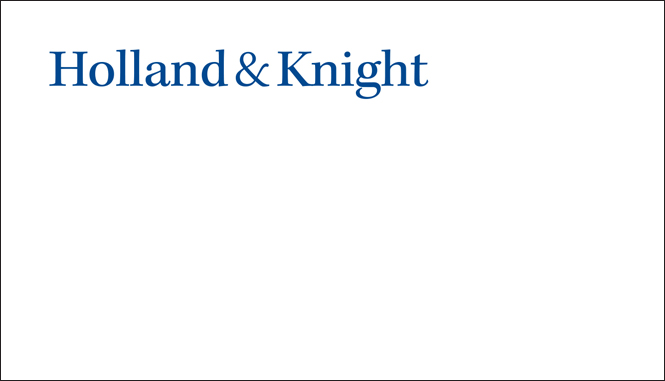
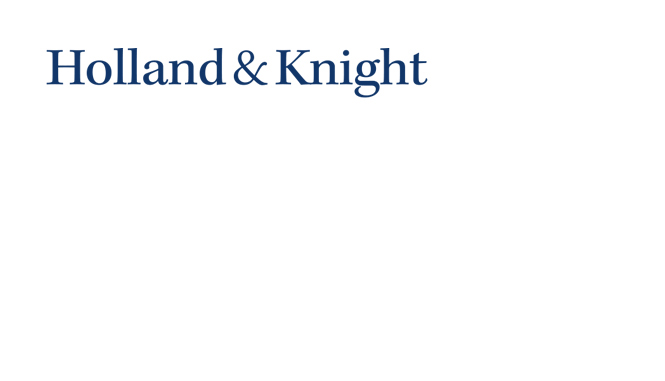
Update bc proof & cart

Changed region(s): [[0.0602, 0.1155, 0.6617, 0.2598], [0.0, 0.0, 1.0, 1.0], [0.0, 0.0, 0.0301, 0.0289]]

diff --git a/resources/views/layouts/bc-proof-layout.blade.php b/resources/views/layouts/bc-proof-layout.blade.php
@@ -1,13 +1,13 @@
 <div id="bc_name" name="bc_name" class="relative">
     <div
-        class="absolute top-[165px] left-[49.5px] -ml-2 tracking-[-.05em] text-left text-[1.7rem] text-red-500 font-helmd z-20">
+        class="absolute top-[165px] left-[49.5px] -ml-2 tracking-[-.05em] text-left text-[1.7rem] text-gray-800 font-helmd z-20">
         {{ $bc_name }}
     </div>
 </div>
 
 <div id="bc_title" name="bc_title" class="absolute">
     <div
-        class="relative top-[198px] left-[48.25px] -ml-1.5 bc-hellt tracking-[-.035em] text-left text-[1.15rem] text-red-500 z-20">
+        class="relative top-[198px] left-[48.25px] -ml-1.5 bc-hellt tracking-[-.035em] text-left text-[1.15rem] text-hkcolor z-20">
         {{ $bc_title == 'Staff Attorney (Title will be updated to "Attorney")' ? 'Attorney' : $bc_title }}
         {{-- Attorney --}}
     </div>
@@ -15,35 +15,42 @@
 
 <div class="absolute">
     <div
-        class="absolute top-[226.5px] -right-[526.5px] -mr-2 w-100 font-hellt tracking-[0.01em] text-right text-[1.1rem] text-red-500 z-20">
+        class="absolute top-[251.5px] -right-[526.5px] -mr-2 w-100 font-hellt tracking-[0.028em] text-right text-[1.1rem] text-hkcolor z-20">
+        {{ !$bc_address2 ? session('HKName') : ""}}
+    </div>
+</div>
+
+<div class="absolute">
+    <div
+        class="absolute top-[230px] -right-[526.0px] -mr-2 w-100 font-hellt tracking-[0.023em] text-right text-[1.1rem] text-hkcolor z-20">
         {{ $bc_address2 ? session('HKName') : ""}}
     </div>
 </div>
 
 <div class="absolute">
     <div
-        class="absolute top-[247.5px] -right-[526.5px] -mr-2 w-100 font-hellt tracking-[-0.010em] text-right text-[1.15rem] text-red-500 z-20">
-        {{ $bc_address2 ? $bc_address1 : session('HKName')}}
+        class="absolute top-[251.5px] -right-[525px] -mr-2 w-100 font-hellt tracking-[-0.00em] text-right text-[1.15rem] text-hkcolor z-20">
+        {{ $bc_address2 ? $bc_address1 : '' }}
     </div>
 </div>
 
 <div class="absolute">
     <div
-        class="absolute top-[270px] -right-[526.5px] -mr-2 w-100 font-hellt tracking-[-0.010em] text-right text-[1.15rem] text-red-500 z-20">
+        class="absolute top-[272.9px] -right-[525.3px] -mr-2 w-100 font-hellt tracking-[-0.00em] text-right text-[1.15rem] text-hkcolor z-20">
         {{ $bc_address2 ? $bc_address2 : $bc_address1}}
     </div>
 </div>
 
 <div class="absolute">
-    <div
-        class="absolute top-[291px] -right-[525px] -mr-2 w-100 font-hellt tracking-[-0.0105em] text-right text-[1.15rem] text-red-500 z-20">
+    <div class="absolute {{ $bc_address2 ? " top-[295px]" : "top-[295px]" }} -right-[527px] -mr-[4.9px] w-100 font-hellt
+        tracking-[-0.001em] text-right text-[1.15rem] text-hkcolor z-20">
         {{ $bc_city }}{{ $bc_city ? ', ' : '' }} {{ $bc_state }} {{ $bc_zip }}
     </div>
 </div>
 
 <div class="absolute">
     <div
-        class="absolute top-[312.5px] -right-[525px] -mr-2 w-100 font-hellt tracking-[-0.015em] text-right text-[1.15rem] text-red-500 z-20">
+        class="absolute top-[317px] -right-[524.5px] -mr-2 w-100 font-hellt tracking-[-0.003em] text-right text-[1.15rem] text-hkcolor z-20">
         @if ($bc_phone)
         {{ 'T ' . $bc_phone }}
         @endif
@@ -58,7 +65,7 @@
 
 <div class="absolute">
     <div
-        class="absolute top-[339.5px] -right-[527.75px] -mr-[4.9px] w-100 font-helmd tracking-[0.013em] text-right text-[17.95px] text-red-500 z-20">
+        class="absolute top-[339.5px] -right-[527.75px] -mr-[4.9px] w-100 font-helmd tracking-[0.013em] text-right text-[17.95px] text-hkcolor z-20">
         {{ $bc_email }}
     </div>
 </div>

diff --git a/resources/views/layouts/bc-cart-proof-layout.blade.php b/resources/views/layouts/bc-cart-proof-layout.blade.php
@@ -10,8 +10,8 @@
 	}
 
 	.name-bc {
-		color: red;
-		/* color: #0b0b0b; */
+		/* color: red; */
+		color: #0b0b0b;
 		position: absolute;
 		font-size: 115px;
 		font-family: 'CustomFont', '"HelveticaNeueLTStd-MD"', sans-serif;
@@ -28,8 +28,8 @@
 	}
 
 	.title-bc {
-		color: red;
-		/* color: #00478F; */
+		/* color: red; */
+		color: #00478F;
 		position: absolute;
 		font-family: 'CustomFont', '"HelveticaNeueLTStd-LT"', sans-serif;
 		letter-spacing: .3px;
@@ -40,79 +40,67 @@
 	}
 
 	.email-bc {
-		color: red;
-		/* color: #00478F; */
+		/* color: red; */
+		color: #00478F;
 		position: absolute;
 		font-size: 80.7px;
 		font-family: 'CustomFont', '"HelveticaNeueLTStd-MD"', sans-serif;
 		letter-spacing: 0.49px;
 		top: 1218px;
 		right: 194px;
-		/* top was 1222 */
-		/* right was 196 */
 	}
 
 	.phone-bc {
-		color: red;
-		/* color: #00478F; */
+		/* color: red; */
+		color: #00478F;
 		position: absolute;
 		font-family: 'CustomFont', '"HelveticaNeueLTStd-LT"', sans-serif;
 		font-size: 83px;
 		letter-spacing: -0.5px;
-		/* top: 682.5px; */
-		/* bottom: 372px; */
 		top: 1119px;
 		right: 194px;
 	}
 
 	.citystatezip-bc {
-		color: red;
-		/* color: #00478F; */
+		/* color: red; */
+		color: #00478F;
 		position: absolute;
 		font-family: 'CustomFont', '"HelveticaNeueLTStd-LT"', sans-serif;
 		font-size: 82px;
 		letter-spacing: -0.4px;
-		/* top: 628px; */
-		/* bottom: 450px; */
 		top: 1020px;
 		right: 194px;
 	}
 
 	.address2-bc {
-		color: red;
-		/* color: #00478F; */
+		/* color: red; */
+		color: #00478F;
 		position: absolute;
 		font-family: 'CustomFont', '"HelveticaNeueLTStd-LT"', sans-serif;
 		font-size: 82px;
 		letter-spacing: -0.4px;
-		/* top: 570px; */
-		/* bottom: 532px; */
 		top: 918px;
 		right: 194px;
 	}
 
 	.address1-bc {
-		color: red;
-		/* color: #00478F; */
+		/* color: red; */
+		color: #00478F;
 		position: absolute;
 		font-family: 'CustomFont', '"HelveticaNeueLTStd-LT"', sans-serif;
 		font-size: 82px;
 		letter-spacing: -0.4px;
-		/* top: 510px; */
-		/* bottom: 610px; */
 		top: 821px;
 		right: 194px;
 	}
 
 	.HKName-bc {
-		color: red;
-		/* color: #00478F; */
+		/* color: red; */
+		color: #00478F;
 		position: absolute;
 		font-family: 'CustomFont', '"HelveticaNeueLTStd-LT"', sans-serif;
 		font-size: 82px;
 		letter-spacing: 0px;
-		/* top: 450px; */
-		/* Bottom: 690px; */
 		top: 724px;
 		right: 194px;
 	}

diff --git a/resources/views/livewire/business-card.blade.php b/resources/views/livewire/business-card.blade.php
@@ -22,7 +22,7 @@
       <h2 class="mt-1 ml-6 text-xl tracking-wide font-helmd text-hkcolor">{{ $product->prod_name }} Proof</h2>
 
       @if ($product->id === 101 || $product->id === 102 || $product->id === 103)
-      <img src="{{ '/assets/mpdf/bc3_template_withText.jpg' }}" class="absolute inset-x-0 max-w-xl shadow-xl inset-y-14"
+      <img src="{{ '/assets/mpdf/bc_template.jpg' }}" class="absolute inset-x-0 max-w-xl shadow-xl inset-y-14"
         alt="...">
       <div class="text-hkcolor absolute inset-y-[425px] ml-6">
         <p>{!! nl2br($product->description) !!}</p>

diff --git a/resources/views/pdf-view.blade.php b/resources/views/pdf-view.blade.php
@@ -25,7 +25,7 @@
         session('prod_layout') === 'SBC' ||
         session('prod_layout') === 'ABC' ||
         session('prod_layout') === 'PBC')
-        <img src="assets/mpdf/bc3_template_withText.jpg" style="width:100%;" class="">
+        <img src="assets/mpdf/bc_template.jpg" style="width:100%;" class="">
         @include('layouts/bc-cart-proof-layout')
         @endif
 
